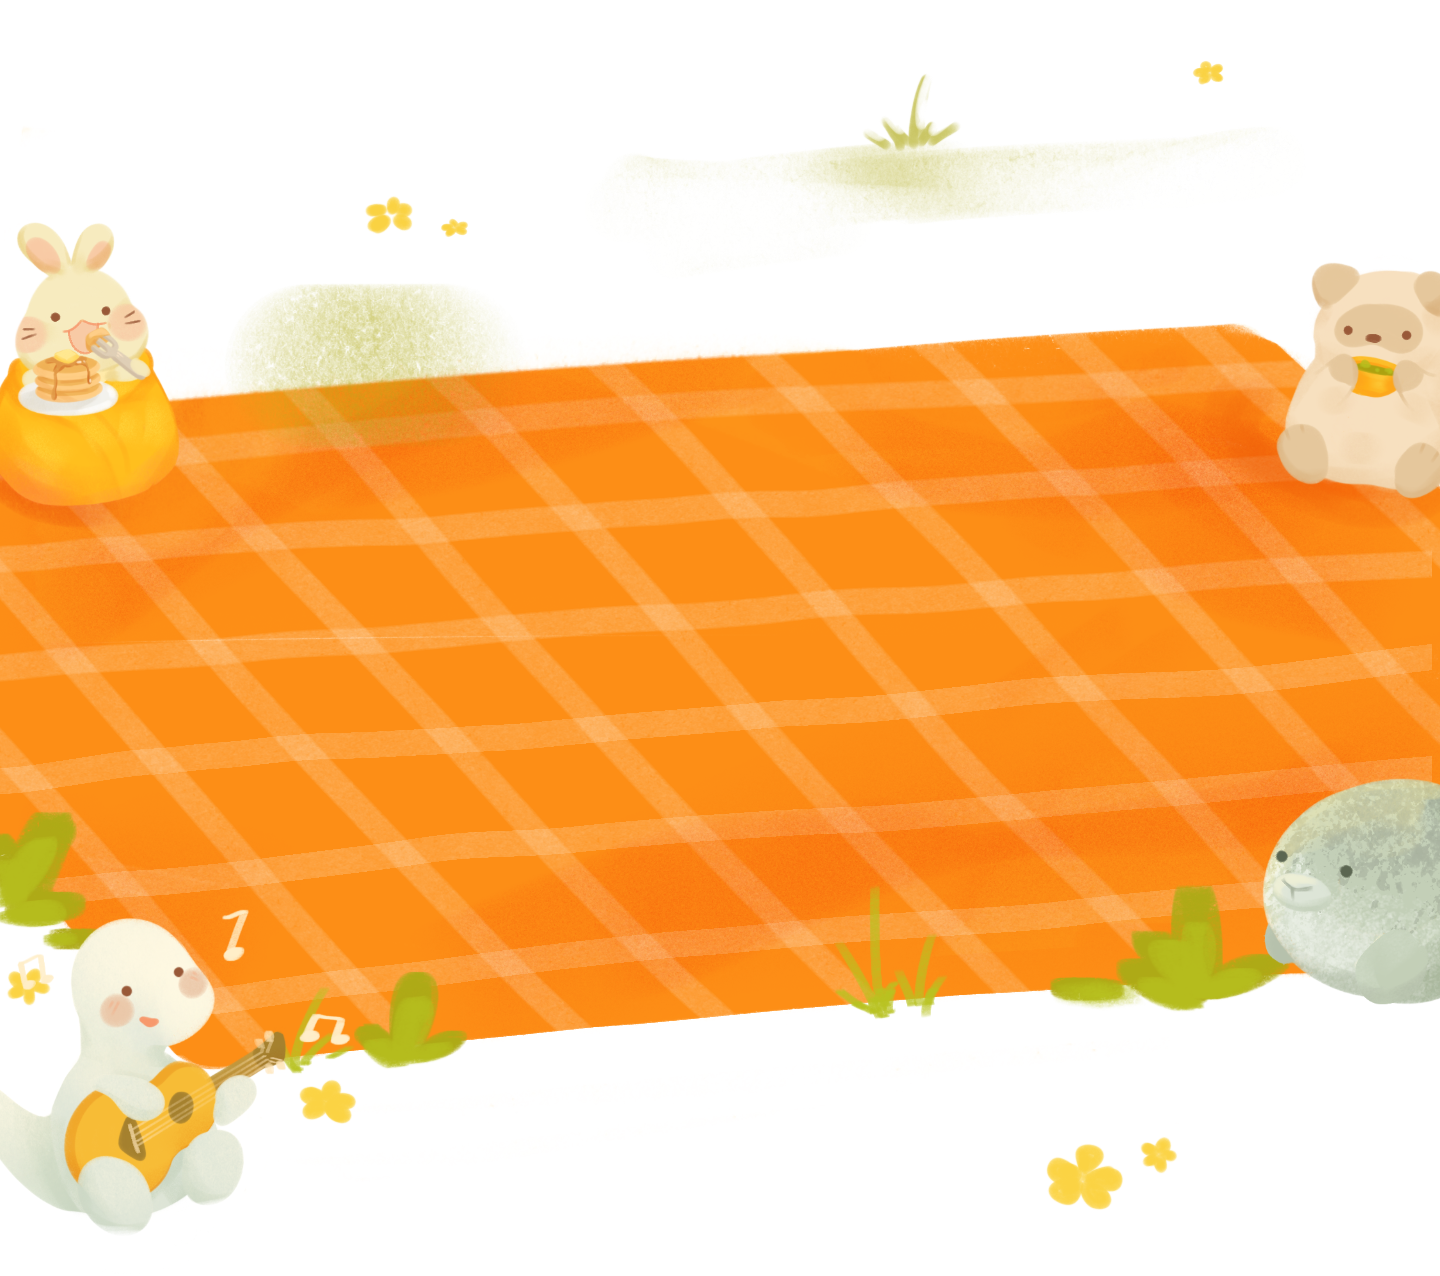
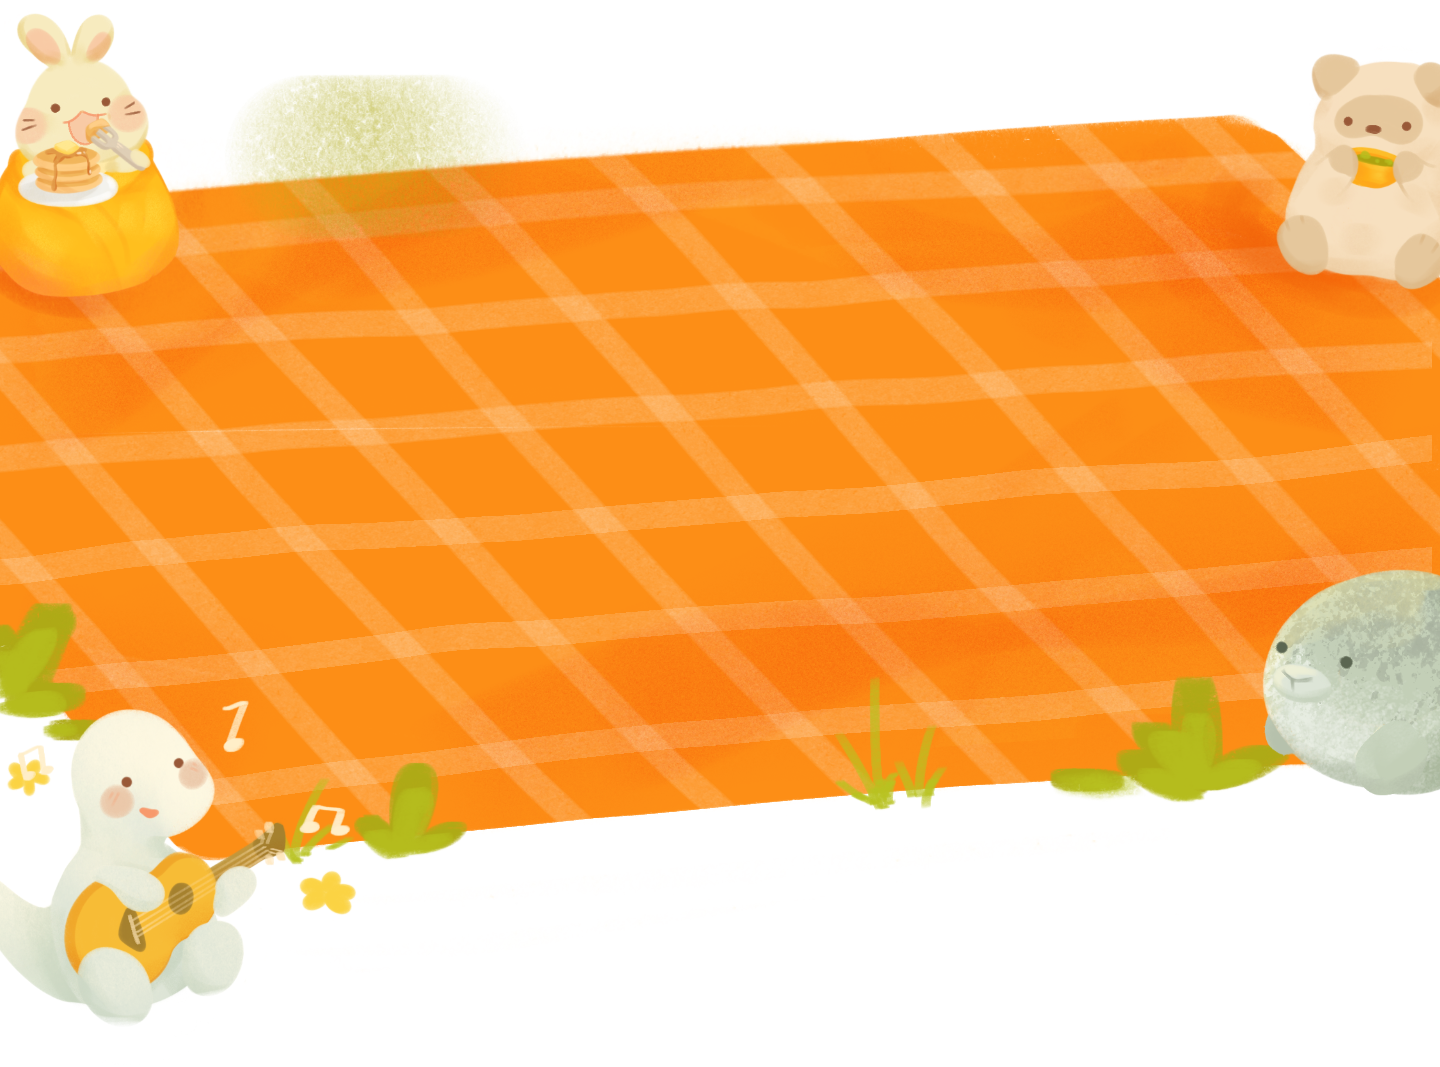
pitch + steps

diff --git a/src/styles/global.css b/src/styles/global.css
@@ -24,7 +24,7 @@
   --text-display--letter-spacing: -0.05em;
 
   --text-heading: clamp(1.5rem, 3vw, 2.75rem);
-  --text-heading--line-height: 0.80;
+  --text-heading--line-height: 0.8;
   --text-heading--letter-spacing: -0.05em;
 
   --text-subheading: clamp(1.25rem, 2vw, 2rem);
@@ -105,6 +105,7 @@
     background-position: top center;
     background-size: 100% auto;
     background-color: var(--color-haven-green);
+    aspect-ratio: var(--stage-ratio);
   }
 
   @media (width >= 48rem) {
@@ -118,25 +119,33 @@
   }
 
   .stage-middle {
-    --stage-ratio: 1440 / 6582;
+    --stage-ratio: 1440 / 4500;
     background-image: url("/images/middle/mid-phone-bg.png");
+  }
+
+  @media (width >= 40rem) {
+    .stage-middle {
+      --stage-ratio: 1440 / 4000;
+      background-image: url("/images/middle/mid-phone-bg.png");
+    }
   }
 
   @media (width >= 48rem) {
     .stage-middle {
-    --stage-ratio: 1439 / 1969;
-    background-image: url("/images/bg-middle.webp");
+      --stage-ratio: 1440 / 2100;
+      background-image: url("/images/bg-middle.webp");
     }
   }
 
   .stage-picnic {
-    --stage-ratio: 1440 / 1463;
-    background-image: url("/images/middle/picnic-bg.png");
+    --stage-ratio: 1440 / 4329;
+    background-image: url("/images/middle/picnic-bg-mobile.png");
   }
 
   @media (width >= 48rem) {
     .stage-picnic {
-      margin-top: max(-5.3%, -6.36rem);
+      --stage-ratio: 1440 / 1067;
+      background-image: url("/images/middle/picnic-bg.png");
     }
   }
 

diff --git a/src/data/content.ts b/src/data/content.ts
@@ -148,6 +148,10 @@ export const scheduleTbd = {
 export const stepsHeading =
   "Here is how you can organize a game jam this November!";
 
+export const stepsSubheading =
+  "(Don't worry, we'll guide you through each step)";
+
+
 export const steps = [
   {
     title: "find a team of coorganizers",
